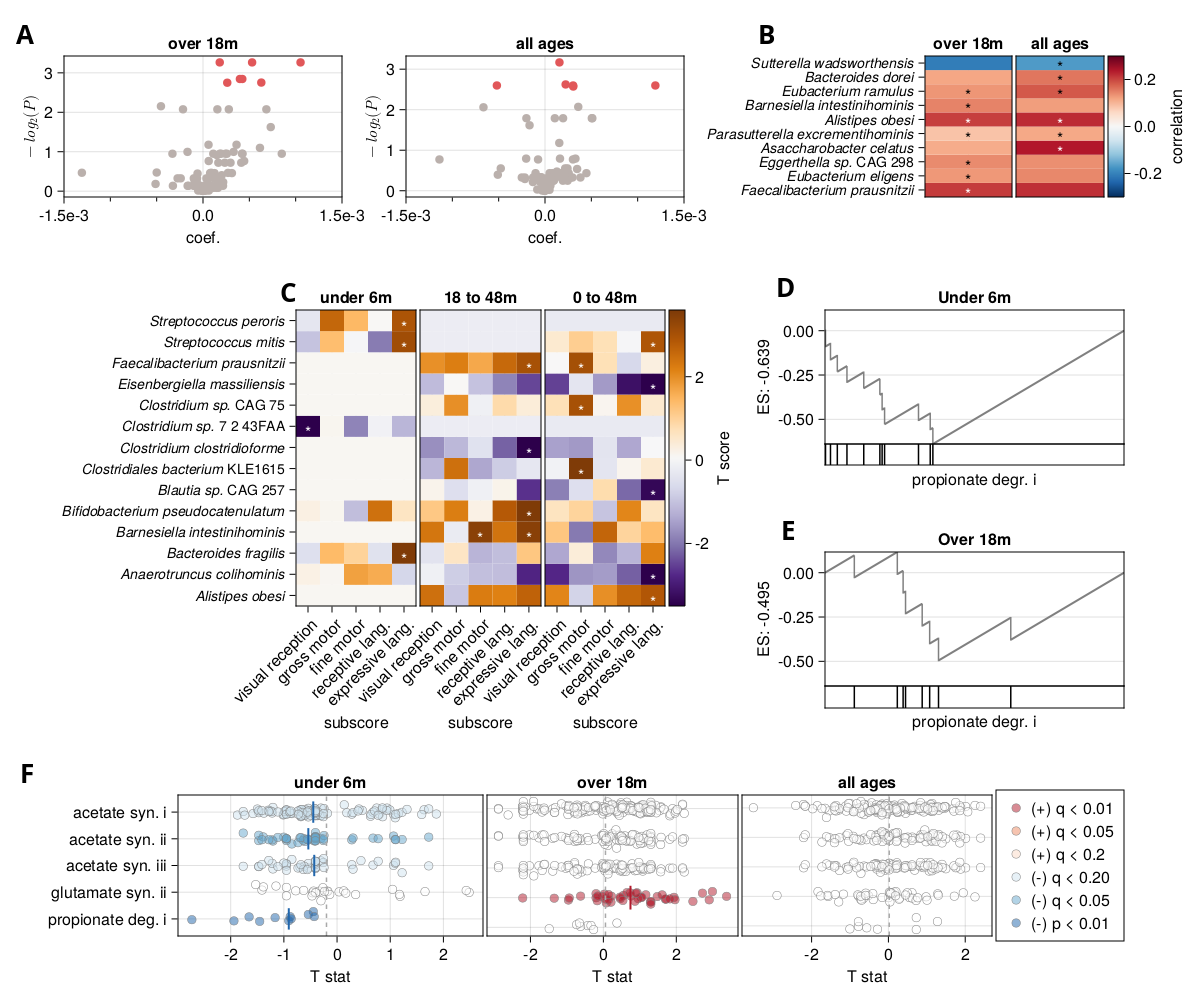
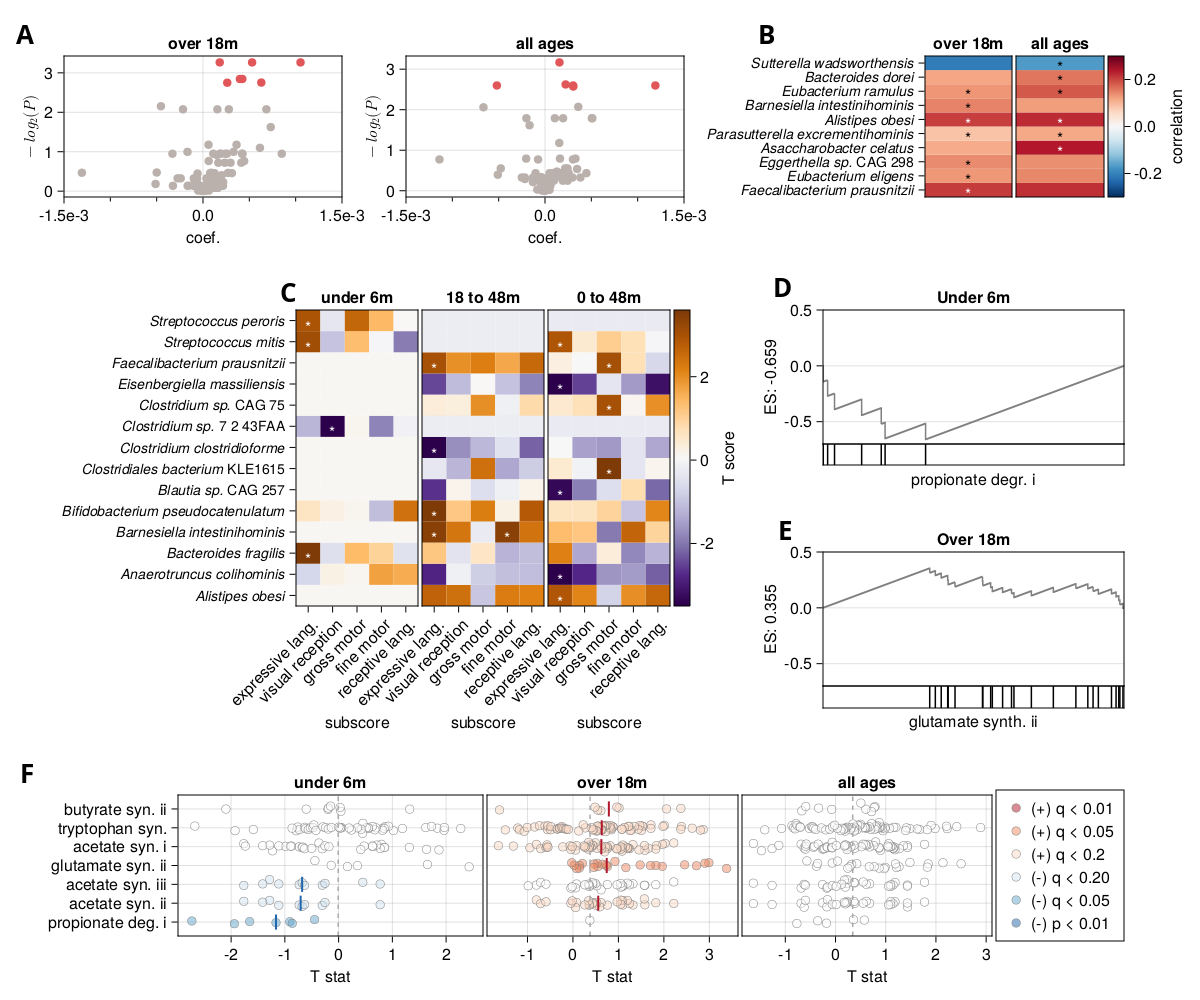
figure 2 done

diff --git a/manuscript/Figure2.md b/manuscript/Figure2.md
@@ -32,9 +32,9 @@ taxdf = comm2wide(taxa)
 
 
 ```julia
-speclms_00to120 = subset(CSV.read(tablefiles("figure2", "lms_species_00to120.csv"), DataFrame), "t"=> ByRow(!isnan))
-speclms_00to06 = subset(CSV.read(tablefiles("figure2", "lms_species_00to06.csv"), DataFrame), "t"=> ByRow(!isnan))
-speclms_18to120 = subset(CSV.read(tablefiles("figure2", "lms_species_18to120.csv"), DataFrame), "t"=> ByRow(!isnan))
+speclms_00to120 = CSV.read(tablefiles("figure2", "lms_species_00to120.csv"), DataFrame)
+speclms_00to06 = CSV.read(tablefiles("figure2", "lms_species_00to06.csv"), DataFrame)
+speclms_18to120 = CSV.read(tablefiles("figure2", "lms_species_18to120.csv"), DataFrame)
 subscale_lms = CSV.read(tablefiles("newfigures", "subscale_lms.csv"), DataFrame)
 subscale_lms.kind[findall(k-> contains(k, "Expressivelan"))] .= "Mullen::mullen_ExpressiveLanguageT"
 
@@ -101,7 +101,7 @@ subscale_mat = let
     end
     newdf = DataFrame(species = sort(unique(DataFrames.combine(df, "species"=> identity=>"species").species)))
     for key in keys(df)
-        col = string(replace(key[:kind], "Mullen::mullen_"=>""), "_", key[:filter])
+        col = string(replace(key[:kind], "Mullen::mullen_"=>"", "languageT"=> "LanguageT"), "_", key[:filter])
         leftjoin!(newdf, select(df[key], "species", "qvalue"=> "$(col)_q", "t"=> "$(col)_t"); on = "species")
     end
     for col in names(newdf, r"_q$")
@@ -182,7 +182,7 @@ scatter!(aax2, speclms_00to120.coef, -1 .* log2.(speclms_00to120.qvalue);
 
 bax1 = Axis(B[1, 1];
     title = "over 18m",
-    yticks = (1.5:nrow(lms_mat) + 0.5, format_species_labesl(lms_mat.feature)),
+    yticks = (1.5:nrow(lms_mat) + 0.5, format_species_labels(lms_mat.feature)),
     yticklabelfont = "TeX Gyre Heros Makie Italic",
     yticklabelsize = 14,
     xticklabelsize = 12
@@ -308,20 +308,19 @@ let
     gs = "Propionate degradation I"
     panel = D
     ixs = neuroactive_00to06[gs]
-    cs = filter(!isnan, cors_00to06.t[ixs])
-    acs = filter(!isnan, cors_00to06.t[Not(ixs)])
+    cs = filter(!isnan, cors_00to06.stat[ixs])
+    acs = filter(!isnan, cors_00to06.stat[Not(ixs)])
 
     (_, dax, _) = Resonance.plot_fsea!(panel, cs, acs;
         title = "Under 6m",
         xticks = -0.7:0.2:0.0)
     Label(panel[3,1], replace(lowercase(gs), "degradation"=> "degr.", "synthesis"=> "synth.", " (vitamin K2)"=> ""); tellheight=true, tellwidth=false)
     rowgap!(panel, 2, Fixed(4))
-    
-    gs = "Propionate degradation I"
+    gs = "Glutamate synthesis II"
     panel = E
     ixs = neuroactive_18to120[gs]
-    cs = filter(!isnan, cors_18to120.t[ixs])
-    acs = filter(!isnan, cors_18to120.t[Not(ixs)])
+    cs = filter(!isnan, cors_18to120.stat[ixs])
+    acs = filter(!isnan, cors_18to120.stat[Not(ixs)])
 
     (_, eax, _) = Resonance.plot_fsea!(panel, cs, acs;
         title = "Over 18m",
@@ -329,6 +328,8 @@ let
     Label(panel[3,1], replace(lowercase(gs), "degradation"=> "degr.", "synthesis"=> "synth.", " (vitamin K2)"=> ""); tellheight=true, tellwidth=false)
     rowgap!(panel, 2, Fixed(4))
     linkyaxes!(dax, eax)
+    ylims!(dax, -0.7, 0.5)
+    ylims!(eax, -0.7, 0.5)
 end
 
 #-
@@ -338,70 +339,93 @@ let
                      subset(fsdf2_18to120, "qvalue"=> ByRow(<(0.2)), "cortest"=> ByRow(==("cogScore"))).geneset,
                      subset(fsdf2_00to120, "qvalue"=> ByRow(<(0.2)), "cortest"=> ByRow(==("cogScore"))).geneset
                )
+    gsidx = Dict(gs=> i for (i, gs) in enumerate(genesets))
   
     df = sort(subset(fsdf2_00to06, "geneset"=> ByRow(gs-> gs in genesets), "cortest"=>ByRow(==("cogScore"))), :geneset; rev=true)
-    ax = Axis(F[1,1]; yticks = (1:nrow(df), replace.(lowercase.(df.geneset), r" \(.+\)" => "", "synthesis"=>"syn.", "degradation"=>"deg.")), 
+    ax1 = Axis(F[1,1]; yticks = (1:length(genesets), replace.(lowercase.(genesets), r" \(.+\)" => "", "synthesis"=>"syn.", "degradation"=>"deg.")), 
                 xlabel="T stat", title="under 6m", alignmode=Mixed(; left=-15))
-    m = median(filter(x-> !isnan(x) && x < 7, cors_00to06.t))
+    m = median(filter(x-> !isnan(x) && x < 7, cors_00to06.stat))
     colors = ColorSchemes.colorschemes[:RdBu_7]
 
-    for (i, row) in enumerate(eachrow(df))
+    for gs in genesets
+        i = gsidx[gs]
+        rowi = findfirst(==(gs), df.geneset)
+        if isnothing(rowi)
+            row = (; enrichment=0.0, qvalue=1.0, geneset=gs)
+        else
+            row = df[rowi,:]
+        end 
         sign = row.enrichment < 0 ? "neg" : "pos"
         c = row.qvalue > 0.2 ? :white : 
             row.qvalue > 0.05 ? (sign == "pos" ? colors[3] : colors[5]) :
             row.qvalue > 0.01 ? (sign == "pos" ? colors[2] : colors[6]) :
             sign == "pos" ? colors[1] : colors[7]
 
-        y = filter(x-> !isnan(x) && x < 7, cors_00to06.t[neuroactive_00to06[row.geneset]])
-        scatter!(ax, y, rand(Normal(0, 0.1), length(y)) .+ i; color=(c,0.5), strokecolor=:gray, strokewidth=0.5)
-        row.qvalue < 0.2 && lines!(ax, fill(median(y), 2), [i-0.4, i+0.4]; color = c in colors[1:3] ? colors[1] : c in colors[5:7] ? colors[7] : :white , linewidth=2)
+        y = filter(x-> !isnan(x) && x < 7, cors_00to06.stat[neuroactive_00to06[row.geneset]])
+        scatter!(ax1, y, rand(Normal(0, 0.1), length(y)) .+ i; color=(c,0.5), strokecolor=:gray, strokewidth=0.5)
+        row.qvalue < 0.2 && lines!(ax1, fill(median(y), 2), [i-0.4, i+0.4]; color = c in colors[1:3] ? colors[1] : c in colors[5:7] ? colors[7] : :white , linewidth=2)
     end
-    vlines!(ax, m; linestyle=:dash, color=:darkgray)
+    vlines!(ax1, m; linestyle=:dash, color=:darkgray)
 
     ####
 
     df = sort(subset(fsdf2_18to120, "geneset"=> ByRow(gs-> gs in genesets), "cortest"=>ByRow(==("cogScore"))), :geneset; rev=true)
-    ax = Axis(F[1,2]; yticks = (1:nrow(df), replace.(df.geneset, r" \(.+\)" => "", "synthesis"=>"syn.", "degradation"=>"deg.")), 
+    ax2 = Axis(F[1,2]; yticks = (1:length(genesets), replace.(genesets, r" \(.+\)" => "", "synthesis"=>"syn.", "degradation"=>"deg.")), 
                 xlabel="T stat", title="over 18m")
-    hideydecorations!(ax, grid=false)
+    hideydecorations!(ax2, grid=false)
 
-    m = median(filter(x-> !isnan(x) && x < 7, cors_18to120.t))
+    m = median(filter(x-> !isnan(x) && x < 7, cors_18to120.stat))
     colors = ColorSchemes.colorschemes[:RdBu_7]
 
-    for (i, row) in enumerate(eachrow(df))
+    for gs in genesets
+        i = gsidx[gs]
+        rowi = findfirst(==(gs), df.geneset)
+        if isnothing(rowi)
+            row = (; enrichment=0.0, qvalue=1.0, geneset=gs)
+        else
+            row = df[rowi, :] 
+        end
         sign = row.enrichment < 0 ? "neg" : "pos"
         c = row.qvalue > 0.2 ? :white : 
             row.qvalue > 0.05 ? (sign == "pos" ? colors[3] : colors[5]) :
             row.qvalue > 0.01 ? (sign == "pos" ? colors[2] : colors[6]) :
             sign == "pos" ? colors[1] : colors[7]
 
-        y = filter(x-> !isnan(x) && x < 7, cors_18to120.t[neuroactive_18to120[row.geneset]])
-        scatter!(ax, y, rand(Normal(0, 0.1), length(y)) .+ i; color=(c,0.5), strokecolor=:gray, strokewidth=0.5)
-        row.qvalue < 0.2 && lines!(ax, fill(median(y), 2), [i-0.4, i+0.4]; color = c in colors[1:3] ? colors[1] : c in colors[5:7] ? colors[7] : :white , linewidth=2)
+        y = filter(x-> !isnan(x) && x < 7, cors_18to120.stat[neuroactive_18to120[row.geneset]])
+        scatter!(ax2, y, rand(Normal(0, 0.1), length(y)) .+ i; color=(c,0.5), strokecolor=:gray, strokewidth=0.5)
+        row.qvalue < 0.2 && lines!(ax2, fill(median(y), 2), [i-0.4, i+0.4]; color = c in colors[1:3] ? colors[1] : c in colors[5:7] ? colors[7] : :white , linewidth=2)
     end
-    vlines!(ax, m; linestyle=:dash, color=:darkgray)
+    vlines!(ax2, m; linestyle=:dash, color=:darkgray)
 
     ####
 
     df = sort(subset(fsdf2_00to120, "geneset"=> ByRow(gs-> gs in genesets), "cortest"=>ByRow(==("cogScore"))), :geneset; rev=true)
-    ax = Axis(F[1,3]; yticks = (1:nrow(df), replace.(df.geneset, r" \(.+?\)" => "", "synthesis"=>"syn.", "degradation"=>"deg.")), 
+    ax3 = Axis(F[1,3]; yticks = (1:length(genesets), replace.(genesets, r" \(.+?\)" => "", "synthesis"=>"syn.", "degradation"=>"deg.")), 
                 xlabel="T stat", title="all ages")
-    hideydecorations!(ax, grid=false)
-    m = median(filter(x-> !isnan(x) && x < 7, cors_00to120.t))
+    hideydecorations!(ax3, grid=false)
+    m = median(filter(x-> !isnan(x) && x < 7, cors_00to120.stat))
     colors = ColorSchemes.colorschemes[:RdBu_7]
 
-    for (i, row) in enumerate(eachrow(df))
+    for gs in genesets
+        i = gsidx[gs]
+        rowi = findfirst(==(gs), df.geneset)
+        if isnothing(rowi)
+            row = (; enrichment=0.0, qvalue=1.0, geneset=gs)
+        else
+            row = df[rowi, :]
+        end
         sign = row.enrichment < 0 ? "neg" : "pos"
         c = row.qvalue > 0.2 ? :white : 
             row.qvalue > 0.05 ? (sign == "pos" ? colors[3] : colors[5]) :
             row.qvalue > 0.01 ? (sign == "pos" ? colors[2] : colors[6]) :
             sign == "pos" ? colors[1] : colors[7]
 
-        y = filter(x-> !isnan(x) && x < 7, cors_00to120.t[neuroactive_18to120[row.geneset]])
-        scatter!(ax, y, rand(Normal(0, 0.1), length(y)) .+ i; color=(c,0.5), strokecolor=:gray, strokewidth=0.5)
-        row.qvalue < 0.2 && lines!(ax, fill(median(y), 2), [i-0.4, i+0.4]; color = c in colors[1:3] ? colors[1] : c in colors[5:7] ? colors[7] : :white , linewidth=2)
+        y = filter(x-> !isnan(x) && x < 7, cors_00to120.stat[neuroactive_00to120[row.geneset]])
+        scatter!(ax3, y, rand(Normal(0, 0.1), length(y)) .+ i; color=(c,0.5), strokecolor=:gray, strokewidth=0.5)
+        row.qvalue < 0.2 && lines!(ax3, fill(median(y), 2), [i-0.4, i+0.4]; color = c in colors[1:3] ? colors[1] : c in colors[5:7] ? colors[7] : :white , linewidth=2)
     end
-    vlines!(ax, m; linestyle=:dash, color=:darkgray)
+    vlines!(ax3, m; linestyle=:dash, color=:darkgray)
+    linkyaxes!(ax1,ax2,ax3)
 
     Legend(F[1,4], [MarkerElement(; color = (c, 0.5),
                                     marker=:circle,
